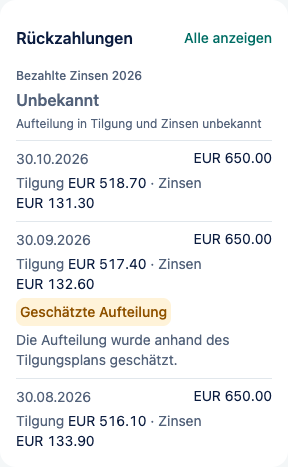
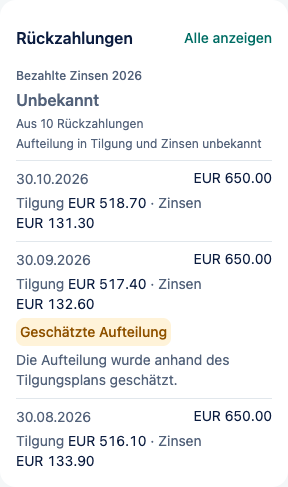
[US-12-05] Keep the repayment count when this year's split is unknown (#722) (#723)
* docs(ux): field 7 state (c) keeps the repayment count (#722)

PO 2026-11-25: "Not known" alone reads like nothing was paid. The count
stays; no amount is shown, because it could be read as interest.

* [US-12-05] Keep the repayment count when this year's split is unknown (#722)

"Not known" alone read like nothing was paid this year. Field 7 now keeps
"From {count} repayments" above "Principal and interest split unknown",
also in the screen-reader label. No amount is shown: unknownSplitAmount
under the interest title could be read as interest (PO 2026-11-25).

Figma state boards (EN/DE, light/dark) updated; web check covers the
unknown state, 146 of 146 checks pass.

* [US-12-04] Read the estimated badge before the split-unknown line (#722)

The accessibility label now follows the screen order: the "Estimated split"
badge sits in the count row, above "Principal and interest split unknown".
Adds a test for a year with no known split that is also estimated, and
rewraps the InterestThisYear doc comment at 100 columns.

---------

diff --git a/mobile/src/features/liability-detail/repayments.tsx b/mobile/src/features/liability-detail/repayments.tsx
@@ -151,9 +151,10 @@ export function RepaymentsPanel({
 /**
  * Field 7 (#712): the server's interest sum for the current calendar year, as the first block of
  * the Repayments panel. Hidden when nothing was paid this year; an unknown split is "Not known",
- * never 0. When the sum cannot be loaded, or the loan's repayments are not accessible, the amount
- * is "–" and never a cached one (PO 2026-11-23). Payments without a known split are left out of
- * `interestPaid`, so their sent total is named below it (PO 2026-11-24).
+ * never 0, and the count stays (#722). When the sum cannot be loaded, or the loan's repayments are
+ * not accessible, the amount is "–" and never a cached one (PO 2026-11-23). Payments without a
+ * known split are left out of `interestPaid`, so their sent total is named below it
+ * (PO 2026-11-24).
  */
 function InterestThisYear({ accountId, unavailable }: { accountId: string; unavailable: boolean }) {
   const intl = useIntl();
@@ -189,9 +190,8 @@ function InterestThisYear({ accountId, unavailable }: { accountId: string; unava
   const interest = known
     ? amountTexts(intl, { value: interestPaid, currency, masked: hidden })
     : null;
-  const meta = known
-    ? msg(intl, 'loan.interestYtdCount', { count: paymentCount })
-    : msg(intl, 'loan.splitUnknown');
+  // The count stays when no split is known, so "Not known" does not read as nothing paid (#722).
+  const meta = msg(intl, 'loan.interestYtdCount', { count: paymentCount });
   const unsplit =
     known && Number(unknownSplitAmount) > 0
       ? amountTexts(intl, { value: unknownSplitAmount, currency, masked: hidden })
@@ -200,7 +200,9 @@ function InterestThisYear({ accountId, unavailable }: { accountId: string; unava
     title,
     interest?.label ?? msg(intl, 'loan.interestUnknown'),
     meta,
+    // Same order as on screen: the badge sits in the count row, above the split-unknown line.
     splitEstimated ? msg(intl, 'loan.estimatedSplit') : null,
+    known ? null : msg(intl, 'loan.splitUnknown'),
     // The children are not read on their own, so the visible explanation must be in the label.
     splitEstimated ? msg(intl, 'loan.interestYtdEstimated') : null,
     unsplit ? msg(intl, 'loan.interestYtdPartial', { amount: unsplit.label }) : null,
@@ -235,6 +237,7 @@ function InterestThisYear({ accountId, unavailable }: { accountId: string; unava
           </View>
         ) : null}
       </View>
+      {known ? null : <Text style={secondary}>{msg(intl, 'loan.splitUnknown')}</Text>}
       {splitEstimated ? (
         <Text style={secondary}>{msg(intl, 'loan.interestYtdEstimated')}</Text>
       ) : null}

diff --git a/mobile/src/features/account-detail/account-detail.test.tsx b/mobile/src/features/account-detail/account-detail.test.tsx
@@ -648,15 +648,43 @@ describe('S10 liability detail (#685)', () => {
 
     it('says Not known instead of 0 when no payment of the year has a known split', async () => {
       await renderYears([
-        year(thisYear, { interestPaid: null, principalPaid: null, unknownSplitAmount: '1650.00' }),
+        year(thisYear, {
+          interestPaid: null,
+          principalPaid: null,
+          unknownSplitAmount: '1650.00',
+          paymentCount: 3,
+        }),
       ]);
       expect(await screen.findByText('Not known')).toBeTruthy();
+      // The count stays, so "Not known" does not read as nothing paid (#722); no amount is shown.
+      expect(within(field()).getByText('From 3 repayments')).toBeTruthy();
+      expect(within(field()).getByText('Principal and interest split unknown')).toBeTruthy();
+      expect(within(field()).queryByText(/1.?650/)).toBeNull();
       expect(field().props.accessibilityLabel).toBe(
-        `${title}, Not known, Principal and interest split unknown`,
+        `${title}, Not known, From 3 repayments, Principal and interest split unknown`,
       );
       expect(screen.queryByText('EUR 0.00')).toBeNull();
       // The whole year is unsplit, so there is no "Not included" part to name.
       expect(screen.queryByText(/Not included/)).toBeNull();
+    });
+
+    it('reads an estimated badge before the split-unknown line, as on screen', async () => {
+      await renderYears([
+        year(thisYear, {
+          interestPaid: null,
+          principalPaid: null,
+          unknownSplitAmount: '1650.00',
+          paymentCount: 3,
+          splitEstimated: true,
+        }),
+      ]);
+      expect(await screen.findByText('Not known')).toBeTruthy();
+      expect(field().props.accessibilityLabel).toMatch(
+        new RegExp(
+          `^${title}, Not known, From 3 repayments, Estimated split, ` +
+            'Principal and interest split unknown, ',
+        ),
+      );
     });
 
     it('marks an estimated year sum', async () => {

diff --git a/docs/ux/screens/loan-detail.md b/docs/ux/screens/loan-detail.md
@@ -98,7 +98,7 @@ Activity  (S3 transaction list)
 | 4 | Balance chart | text alternative `loan.chartSummary` "From {first} to {last}: {start} down to {end}" | (2) points | `ValueChart` in liability colour, no fill |
 | 5 | Paid off on | `loan.paidOffOn` "Paid off on {date}" / "Abbezahlt am {date}" | last entry `dueDate` | hidden when the last `remainingBalance ≠ 0`; then `loan.scheduleEnds` "Schedule ends {date}, {remaining} still owed" |
 | 6 | Repayment row | `loan.repayment.split` "Principal {p} · Interest {i}" / "Tilgung {p} · Zinsen {i}" | (3) | `splitEstimated` ⇒ `Estimated split` badge with the explanation "The split was estimated from the schedule ({splitSource})" |
-| 7 | Interest paid this year | `loan.interestYtd` "Interest paid in {year}" / "Bezahlte Zinsen {year}"; below it `loan.interestYtdCount` "From {count, plural, one {# repayment} other {# repayments}}" / "Aus {count, plural, one {# Rückzahlung} other {# Rückzahlungen}}" | (5) entry of the current year: `year`, `interestPaid`, `paymentCount`, `splitEstimated` (G10-2, #693) | **Place:** first block of the Repayments card, above the repayment rows, divided by a line. It sums *past* payments, so it sits with them, not in "Next payment" (the future) or the "Owed" card (the balance). `{year}` is the sent `year`. The block is one accessibility element ("Interest paid in 2026: EUR 1'352.90, from 10 repayments, estimated split"). **States** (all drawn on the #712 boards): (a) `interestPaid` as sent, in `Number/L`; (b) `splitEstimated` ⇒ `Estimated split` badge after the count, same tap explanation sheet as on a repayment row, text `loan.interestYtdEstimated` "Some of this year's splits were estimated." / "Ein Teil der Aufteilungen dieses Jahres ist geschätzt."; (c) `interestPaid = null` ⇒ `loan.interestUnknown` "Not known" / "Unbekannt" in text/secondary, never 0, with `loan.splitUnknown` below instead of the count; (d) the request fails (network, 403, 404, 5xx) ⇒ "–" in place of the amount, no count line (PO 2026-11-23); screen readers hear `loan.interestYtdUnavailable` "Interest paid in {year}: not available" / "Bezahlte Zinsen {year}: nicht verfügbar" instead of the dash; (e) no entry for the current year ⇒ the block and its divider are absent, the card starts with the first repayment; (f) `interestPaid` sent and `unknownSplitAmount > 0` (a payment with an unknown split is in `amountPaid` and `unknownSplitAmount`, not in `interestPaid`) ⇒ below the count the caption `loan.interestYtdPartial` "Not included: {amount} without a known split" / "Nicht enthalten: {amount} ohne bekannte Aufteilung", `{amount}` = `unknownSplitAmount` as sent (PO 2026-11-24). With `interestPaid = null` state (c) applies and no caption is shown |
+| 7 | Interest paid this year | `loan.interestYtd` "Interest paid in {year}" / "Bezahlte Zinsen {year}"; below it `loan.interestYtdCount` "From {count, plural, one {# repayment} other {# repayments}}" / "Aus {count, plural, one {# Rückzahlung} other {# Rückzahlungen}}" | (5) entry of the current year: `year`, `interestPaid`, `paymentCount`, `splitEstimated` (G10-2, #693) | **Place:** first block of the Repayments card, above the repayment rows, divided by a line. It sums *past* payments, so it sits with them, not in "Next payment" (the future) or the "Owed" card (the balance). `{year}` is the sent `year`. The block is one accessibility element ("Interest paid in 2026: EUR 1'352.90, from 10 repayments, estimated split"). **States** (all drawn on the #712 boards): (a) `interestPaid` as sent, in `Number/L`; (b) `splitEstimated` ⇒ `Estimated split` badge after the count, same tap explanation sheet as on a repayment row, text `loan.interestYtdEstimated` "Some of this year's splits were estimated." / "Ein Teil der Aufteilungen dieses Jahres ist geschätzt."; (c) `interestPaid = null` ⇒ `loan.interestUnknown` "Not known" / "Unbekannt" in text/secondary, never 0, then the count line and `loan.splitUnknown` below it; no amount, so nothing can be read as interest (PO 2026-11-25, #722); (d) the request fails (network, 403, 404, 5xx) ⇒ "–" in place of the amount, no count line (PO 2026-11-23); screen readers hear `loan.interestYtdUnavailable` "Interest paid in {year}: not available" / "Bezahlte Zinsen {year}: nicht verfügbar" instead of the dash; (e) no entry for the current year ⇒ the block and its divider are absent, the card starts with the first repayment; (f) `interestPaid` sent and `unknownSplitAmount > 0` (a payment with an unknown split is in `amountPaid` and `unknownSplitAmount`, not in `interestPaid`) ⇒ below the count the caption `loan.interestYtdPartial` "Not included: {amount} without a known split" / "Nicht enthalten: {amount} ohne bekannte Aufteilung", `{amount}` = `unknownSplitAmount` as sent (PO 2026-11-24). With `interestPaid = null` state (c) applies and no caption is shown |
 | 8 | Card statement period | `card.statement.period` "{from} – {to}" | (4) `periodStart`, `periodEnd` | |
 | 9 | Card statement amount | | (4) `closingBalance`, `currency` | null ⇒ `card.statement.amountUnknown` |
 | 10 | Card due | `card.statement.due` "Due {date}" / "Fällig am {date}" | (4) `dueDate`, `paid` | badge `card.paid` / `card.notPaid` |
@@ -138,6 +138,7 @@ Activity  (S3 transaction list)
 | 2026-11-23 | Field 7 shows "–" when the yearly totals cannot be loaded, also on an access error |
 | 2026-11-24 (#712) | Field 7 sits at the top of the Repayments card. The label names the year, "Interest paid in {year}" / "Bezahlte Zinsen {year}", and the amount goes on its own line. This replaces the provisional "Interest this year: {amount}" from #708. The count line "From {count} repayments" stays. A part of the year without a split gets the "Not included" caption (state f) |
 | 2026-11-24 (#712) | The Next payment card shows the entry `amount` right of the date in Figma (M27 and the W06 loan column) |
+| 2026-11-25 (#722) | When no split of the year is known (state c), field 7 still shows the count line "From {count} repayments" above "Principal and interest split unknown". It shows no amount: `unknownSplitAmount` under the interest title could be read as interest |
 
 ## API gaps
 

diff --git a/docs/ux/evidence/713-web-check/README.md b/docs/ux/evidence/713-web-check/README.md
@@ -11,9 +11,10 @@ the web export, with every API call mocked in Playwright (`page.route`) using sy
   - it sits between the panel title row and the first repayment row, and is the panel's
     second child (the block right after the title row);
   - "See all" is in the title row;
+  - unknown state (#722): the count sits above "split unknown", and no amount is shown;
   - nothing overflows horizontally.
 - **axe** (WCAG 2.1 AA): runs at 320 px on the error, partial and dark runs.
-- **Result:** 138 of 138 checks pass ([results.json](results.json)). The screenshots
+- **Result:** 146 of 146 checks pass ([results.json](results.json)). The screenshots
   (`<lang>-<scheme>-<width>-<state>.png`) show the Repayments panel.
 
 Run it again:
